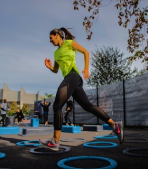
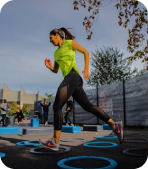
Implementing categories card

diff --git a/App.js b/App.js
@@ -1,5 +1,12 @@
 import React, {useState} from 'react';
-import {View, Text, TouchableOpacity, StyleSheet, Image} from 'react-native';
+import {
+  View,
+  Text,
+  TouchableOpacity,
+  ImageBackground,
+  StyleSheet,
+  Image,
+} from 'react-native';
 
 const App = () => {
   return (
@@ -15,20 +22,85 @@ const App = () => {
         />
       </View>
 
-      {/* Second container */}
+      {/* plans container */}
       <View style={styles.plansContainer}>
-        <Text style={styles.keyStyle}>Today Work Plan</Text>
+        <Text style={styles.planHead}>Today Work Plan</Text>
         <View style={styles.plans}>
           <View style={styles.card}>
-            <Image
+            <ImageBackground
               source={require('./assets/Images/jogging.png')}
-              style={styles.planImg}
-            />
+              resizeMode='cover'
+              style={styles.planImg}>
+              <Text style={styles.plansText}>Jogging</Text>
+            </ImageBackground>
+          </View>
 
-            {/* <Image source={require('./assets/Images/jogging.PNG')} style={styles.homeImg}/> */}
+          <View style={styles.card}>
+            <ImageBackground
+              source={require('./assets/Images/pushup.png')}
+              resizeMode='cover'
+              style={styles.planImg}>
+              <Text style={styles.plansText}>Push-Up</Text>
+            </ImageBackground>
+          </View>
+
+          <View style={styles.card}>
+            <ImageBackground
+              source={require('./assets/Images/squat.png')}
+              resizeMode='cover'
+              style={styles.planImg}>
+              <Text style={styles.plansText}>Squat</Text>
+            </ImageBackground>
           </View>
         </View>
       </View>
+
+      {/* Categories container */}
+      <View style={styles.categoriesContainer}>
+        <Text style={styles.categoriesHead}>Categories</Text>
+        <View style={styles.categories}>
+          <View style={styles.categoriesCard}>
+            <ImageBackground
+              source={require('./assets/Images/gym.png')}
+              style={styles.categoriesImg}>
+              <Text style={styles.categoriesText}>Gym</Text>
+            </ImageBackground>
+          </View>
+
+          <View style={styles.categoriesCard}>
+            <ImageBackground
+              source={require('./assets/Images/yoga.png')}
+              style={styles.categoriesImg}>
+              <Text style={styles.categoriesText}>Push-Up</Text>
+            </ImageBackground>
+          </View>
+
+          <View style={styles.categoriesCard}>
+            <ImageBackground
+              source={require('./assets/Images/fitness.png')}
+              style={styles.categoriesImg}>
+              <Text style={styles.categoriesText}>Fitness</Text>
+            </ImageBackground>
+          </View>
+
+          <View style={styles.categoriesCard}>
+            <ImageBackground
+              source={require('./assets/Images/aerobics.png')}
+              style={styles.categoriesImg}>
+              <Text style={styles.categoriesText}>Aerobics</Text>
+            </ImageBackground>
+          </View>
+
+          <View style={styles.categoriesCard}>
+            <ImageBackground
+              source={require('./assets/Images/back.png')}
+              style={styles.categoriesImg}>
+              <Text style={styles.categoriesText}>Back</Text>
+            </ImageBackground>
+          </View>
+        </View>
+      </View>
+
     </View>
   );
 };
@@ -61,17 +133,57 @@ const styles = StyleSheet.create({
     marginLeft: 85,
     marginTop: 5,
   },
-  keyStyle: {
+  planHead: {
     color: '#fff',
     fontSize: 16,
     marginLeft: 5,
     paddingLeft: 20,
   },
-  planImg: {
-    borderRadius: 15,
-    margin: 20,
-    marginTop: 10,
+  plans:{
+    flexDirection: 'row'
   },
+
+  planImg: {
+    marginLeft: 20,
+    marginTop: 10,
+    width: 148,
+    height: 169,
+    borderRadius: 50,
+    
+  },
+  plansText: {
+    color: '#fff',
+    fontSize: 18,
+    fontWeight: 'bold',
+    textAlign: 'center',  
+    paddingTop: 120
+  },
+  categories:{
+    flexDirection: 'row'
+  },
+  categoriesHead: {
+    color: '#fff',
+    fontSize: 16,
+    paddingTop: 20,
+    marginLeft: 5,
+    paddingLeft: 20,
+  },
+  categoriesImg: {
+    marginLeft: 20,
+    marginTop: 10,
+    width: 77,
+    height: 104,
+    borderRadius: 50,
+    
+  },
+  categoriesText: {
+    color: '#fff',
+    fontSize: 14,
+    fontWeight: 'bold',
+    textAlign: 'center',  
+    paddingTop: 70
+  },
+  
 });
 
 export default App;
